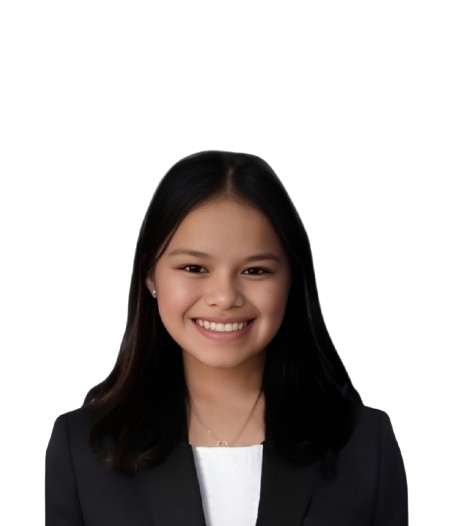
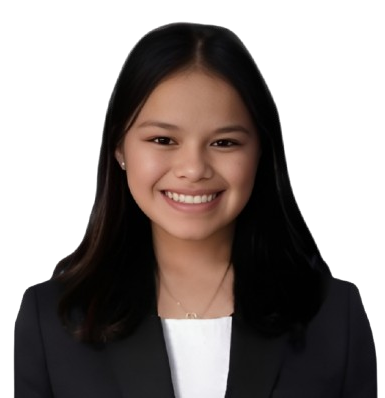
edited about

diff --git a/index.html b/index.html
@@ -60,29 +60,46 @@
 
 
 <!-- ABOUT -->
-<section id="about" style="background-color:#f4e1bbb7; padding:80px 0;">
+<section id="about" class="about-section">
     <div class="container">
-        <h2 class="text-center mb-4">About Me</h2>
-        <div class="row align-items-center g-4">
-            <div class="col-md-4 text-center">
-                <img src="images/sar.png" class="about-img" alt="Sarah" 
-                     style="width:250px; height:250px; object-fit:cover; border-radius:50%; box-shadow:0 10px 25px rgba(0,0,0,0.15);">
+        <div class="row align-items-center gy-5">
+
+            <!-- IMAGE -->
+            <div class="col-lg-4 text-center">
+                <img src="images/sar.png"
+                     alt="Sarah Suyat"
+                     class="about-image">
             </div>
-            <div class="col-md-8">
-                <div class="about-card" style="background:#fff7f0; padding:25px 30px; border-radius:20px; box-shadow:0 8px 25px rgba(0,0,0,0.1);">
-                    <p>
-                        I am a fourth-year IT student specializing in web development and graphic design. I love combining technical skills with creativity to create visually engaging and functional projects.
-                    </p>
-                    <ul>
-                        <li>Web Development (HTML, CSS, Bootstrap, JS)</li>
-                        <li>Graphic Design (Canva)</li>
-                        <li>Always learning new techniques and technologies</li>
-                    </ul>
-                </div>
+
+            <!-- CONTENT -->
+            <div class="col-lg-8">
+                <h2 class="about-title">About Me</h2>
+
+                <p class="about-text">
+                    I am a fourth-year Information Technology student with a strong interest
+                    in web development and graphic design. I enjoy building visually appealing,
+                    user-friendly, and functional digital solutions.
+                </p>
+
+                <p class="about-text">
+                    My academic experience has allowed me to develop both technical and creative
+                    skills, enabling me to approach projects with a balance of structure,
+                    innovation, and attention to detail.
+                </p>
+
+                <ul class="about-list">
+                    <li>Web Development: HTML, CSS, Bootstrap, JavaScript</li>
+                    <li>Graphic Design: Canva</li>
+                    <li>Basic UI/UX Design Principles</li>
+                    <li>Always learning new techniques and technologies.</li>
+                </ul>
             </div>
+
         </div>
     </div>
 </section>
+
+
 
 
 <!-- PROJECTS -->

diff --git a/style.css b/style.css
@@ -102,8 +102,8 @@ a {
 
 /* IMAGE ITSELF */
 .hero-img {
-    height: 200%;         
-    max-height: 120vh;     
+    height: 93%;         
+    max-height: 100vh;     
     width: auto;
     object-fit: cover;
 }
@@ -111,29 +111,91 @@ a {
 
 
 
-/* --- ABOUT --- */
-.creamy-about {
-    background-color: #f0e6d2;
-    padding: 80px 0;
+/* ABOUT SECTION BACKGROUND DESIGN */
+.about-section {
+    position: relative;
+    padding: 50px 0;
+    background: linear-gradient(
+        135deg,
+        #e9dcc5 0%,
+        #efe6d3 40%,
+        #e1d1b0 100%
+    );
+    overflow: hidden;
 }
 
-.about-img {
-    width: 250px;
+/* Decorative shapes */
+.about-section::before,
+.about-section::after {
+    content: "";
+    position: absolute;
     border-radius: 50%;
+    opacity: 0.25;
+    z-index: 0;
+}
+
+/* Top left shape */
+.about-section::before {
+    width: 320px;
+    height: 320px;
+    background: #c8b28a;
+    top: -120px;
+    left: -120px;
+}
+
+/* Bottom right shape */
+.about-section::after {
+    width: 380px;
+    height: 380px;
+    background: #b29a6f;
+    bottom: -150px;
+    right: -150px;
+}
+
+/* Content stays above background */
+.about-section .container {
+    position: relative;
+    z-index: 1;
+}
+
+/* Image */
+.about-image {
+    width: 400px;
+    height: 400px;
     object-fit: cover;
-    box-shadow: 0 10px 25px rgba(0,0,0,0.15);
+    border-radius: 18px;
+    box-shadow: 0 18px 40px rgba(0, 0, 0, 0.553);
+    margin-left: 50px;
 }
 
-.about-card {
-    background: #fff7f0;
-    padding: 25px;
-    border-radius: 20px;
-    box-shadow: 0 10px 25px rgba(0,0,0,0.1);
+/* Text styling */
+.about-title {
+    font-size: 2.3rem;
+    font-weight: 700;
+    margin-bottom: 20px;
+    color: #3f3a2f;
+    margin-left: 100px;
 }
 
-.about-card ul {
-    padding-left: 20px;
+.about-text {
+    font-size: 1.05rem;
+    line-height: 1.8;
+    color: #4a463b;
+    margin-bottom: 15px;
+    margin-left: 100px;
 }
+
+.about-list {
+    margin-top: 20px;
+    padding-left: 18px;
+    margin-left: 100px;
+}
+
+.about-list li {
+    margin-bottom: 10px;
+    color: #4a463b;
+}
+
 
 
 .projects-section {
